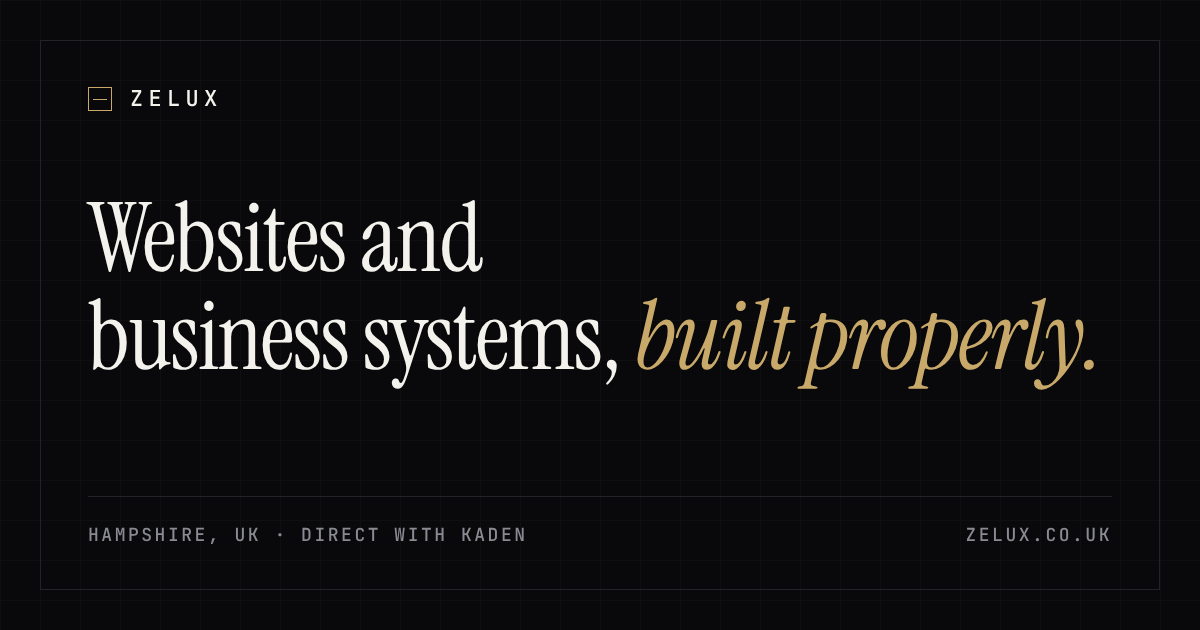
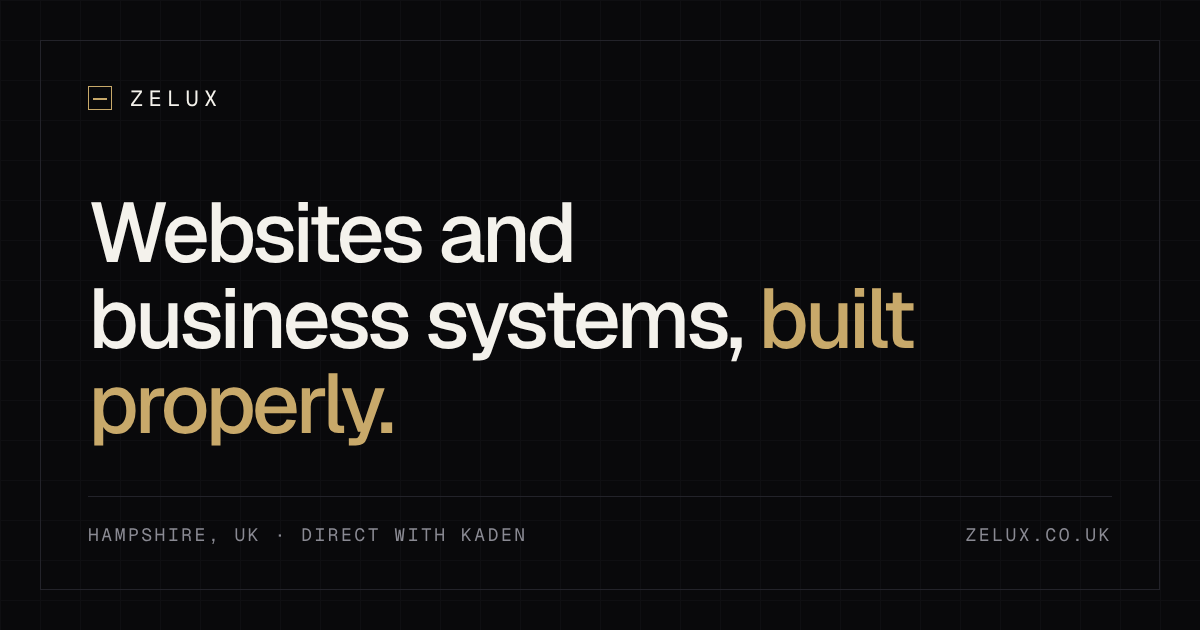
Switch type to Geist, add 10 core automations
Claude-Session: https://claude.ai/code/session_01AWB2yXSWHtHjzxU4b5By1z

diff --git a/src/styles/global.css b/src/styles/global.css
@@ -1,8 +1,5 @@
-@import "@fontsource/instrument-serif/400.css";
-@import "@fontsource/instrument-serif/400-italic.css";
-@import "@fontsource-variable/inter";
-@import "@fontsource/jetbrains-mono/400.css";
-@import "@fontsource/jetbrains-mono/500.css";
+@import "@fontsource-variable/geist";
+@import "@fontsource-variable/geist-mono";
 @import "tailwindcss";
 
 @theme {
@@ -26,9 +23,9 @@
   --color-bone-ink-2: #4c4a50;
   --color-brass-deep: #7a5b22;
 
-  --font-serif: "Instrument Serif", ui-serif, Georgia, serif;
-  --font-sans: "Inter Variable", ui-sans-serif, system-ui, sans-serif;
-  --font-mono: "JetBrains Mono", ui-monospace, monospace;
+  --font-serif: "Geist Variable", ui-sans-serif, system-ui, sans-serif;
+  --font-sans: "Geist Variable", ui-sans-serif, system-ui, sans-serif;
+  --font-mono: "Geist Mono Variable", ui-monospace, monospace;
 
   --radius-sharp: 2px;
   --ease-out-soft: cubic-bezier(0.22, 1, 0.36, 1);
@@ -45,7 +42,7 @@
   }
   body {
     font-family: var(--font-sans);
-    font-feature-settings: "cv11", "ss01";
+    font-feature-settings: "ss01";
     overflow-x: clip;
   }
   ::selection {
@@ -75,18 +72,18 @@
   }
   .h-display {
     font-family: var(--font-serif);
-    font-weight: 400;
-    font-size: clamp(2.75rem, 6.2vw, 5rem);
+    font-weight: 500;
+    font-size: clamp(2.5rem, 5.6vw, 4.5rem);
     line-height: 1.02;
-    letter-spacing: -0.02em;
+    letter-spacing: -0.045em;
     text-wrap: balance;
   }
   .h-section {
     font-family: var(--font-serif);
-    font-weight: 400;
-    font-size: clamp(2rem, 4vw, 3.25rem);
+    font-weight: 500;
+    font-size: clamp(1.875rem, 3.6vw, 2.875rem);
     line-height: 1.08;
-    letter-spacing: -0.02em;
+    letter-spacing: -0.04em;
     text-wrap: balance;
   }
   .lead { font-size: clamp(1.0625rem, 1.4vw, 1.25rem); line-height: 1.6; color: var(--color-ink-2); text-wrap: pretty; }
@@ -148,7 +145,7 @@
 
   /* Long-form legal / prose */
   .prose-z { max-width: 68ch; color: var(--color-ink-2); line-height: 1.7; }
-  .prose-z h2 { font-family: var(--font-serif); color: var(--color-ink); font-size: 1.875rem; line-height: 1.15; margin: 3rem 0 1rem; letter-spacing: -0.01em; }
+  .prose-z h2 { font-family: var(--font-sans); font-weight: 500; color: var(--color-ink); font-size: 1.625rem; line-height: 1.2; margin: 3rem 0 1rem; letter-spacing: -0.03em; }
   .prose-z h3 { color: var(--color-ink); font-weight: 500; margin: 1.75rem 0 0.5rem; }
   .prose-z p { margin: 0 0 1rem; }
   .prose-z ul { margin: 0 0 1rem; padding-left: 1.1rem; list-style: square; }
@@ -182,3 +179,7 @@
 .faq-item[data-open="true"] .faq-panel { grid-template-rows: 1fr; }
 .faq-item[data-open="true"] .faq-icon { transform: rotate(45deg); color: var(--color-brass); }
 @media (prefers-reduced-motion: reduce) { .faq-panel { transition: none; } }
+
+/* Display titles set in Geist: medium weight, tight tracking. Accent words are coloured, not italic. */
+.font-serif { font-weight: 500; letter-spacing: -0.03em; }
+h1 em, h2 em, h3 em { font-style: normal; }
